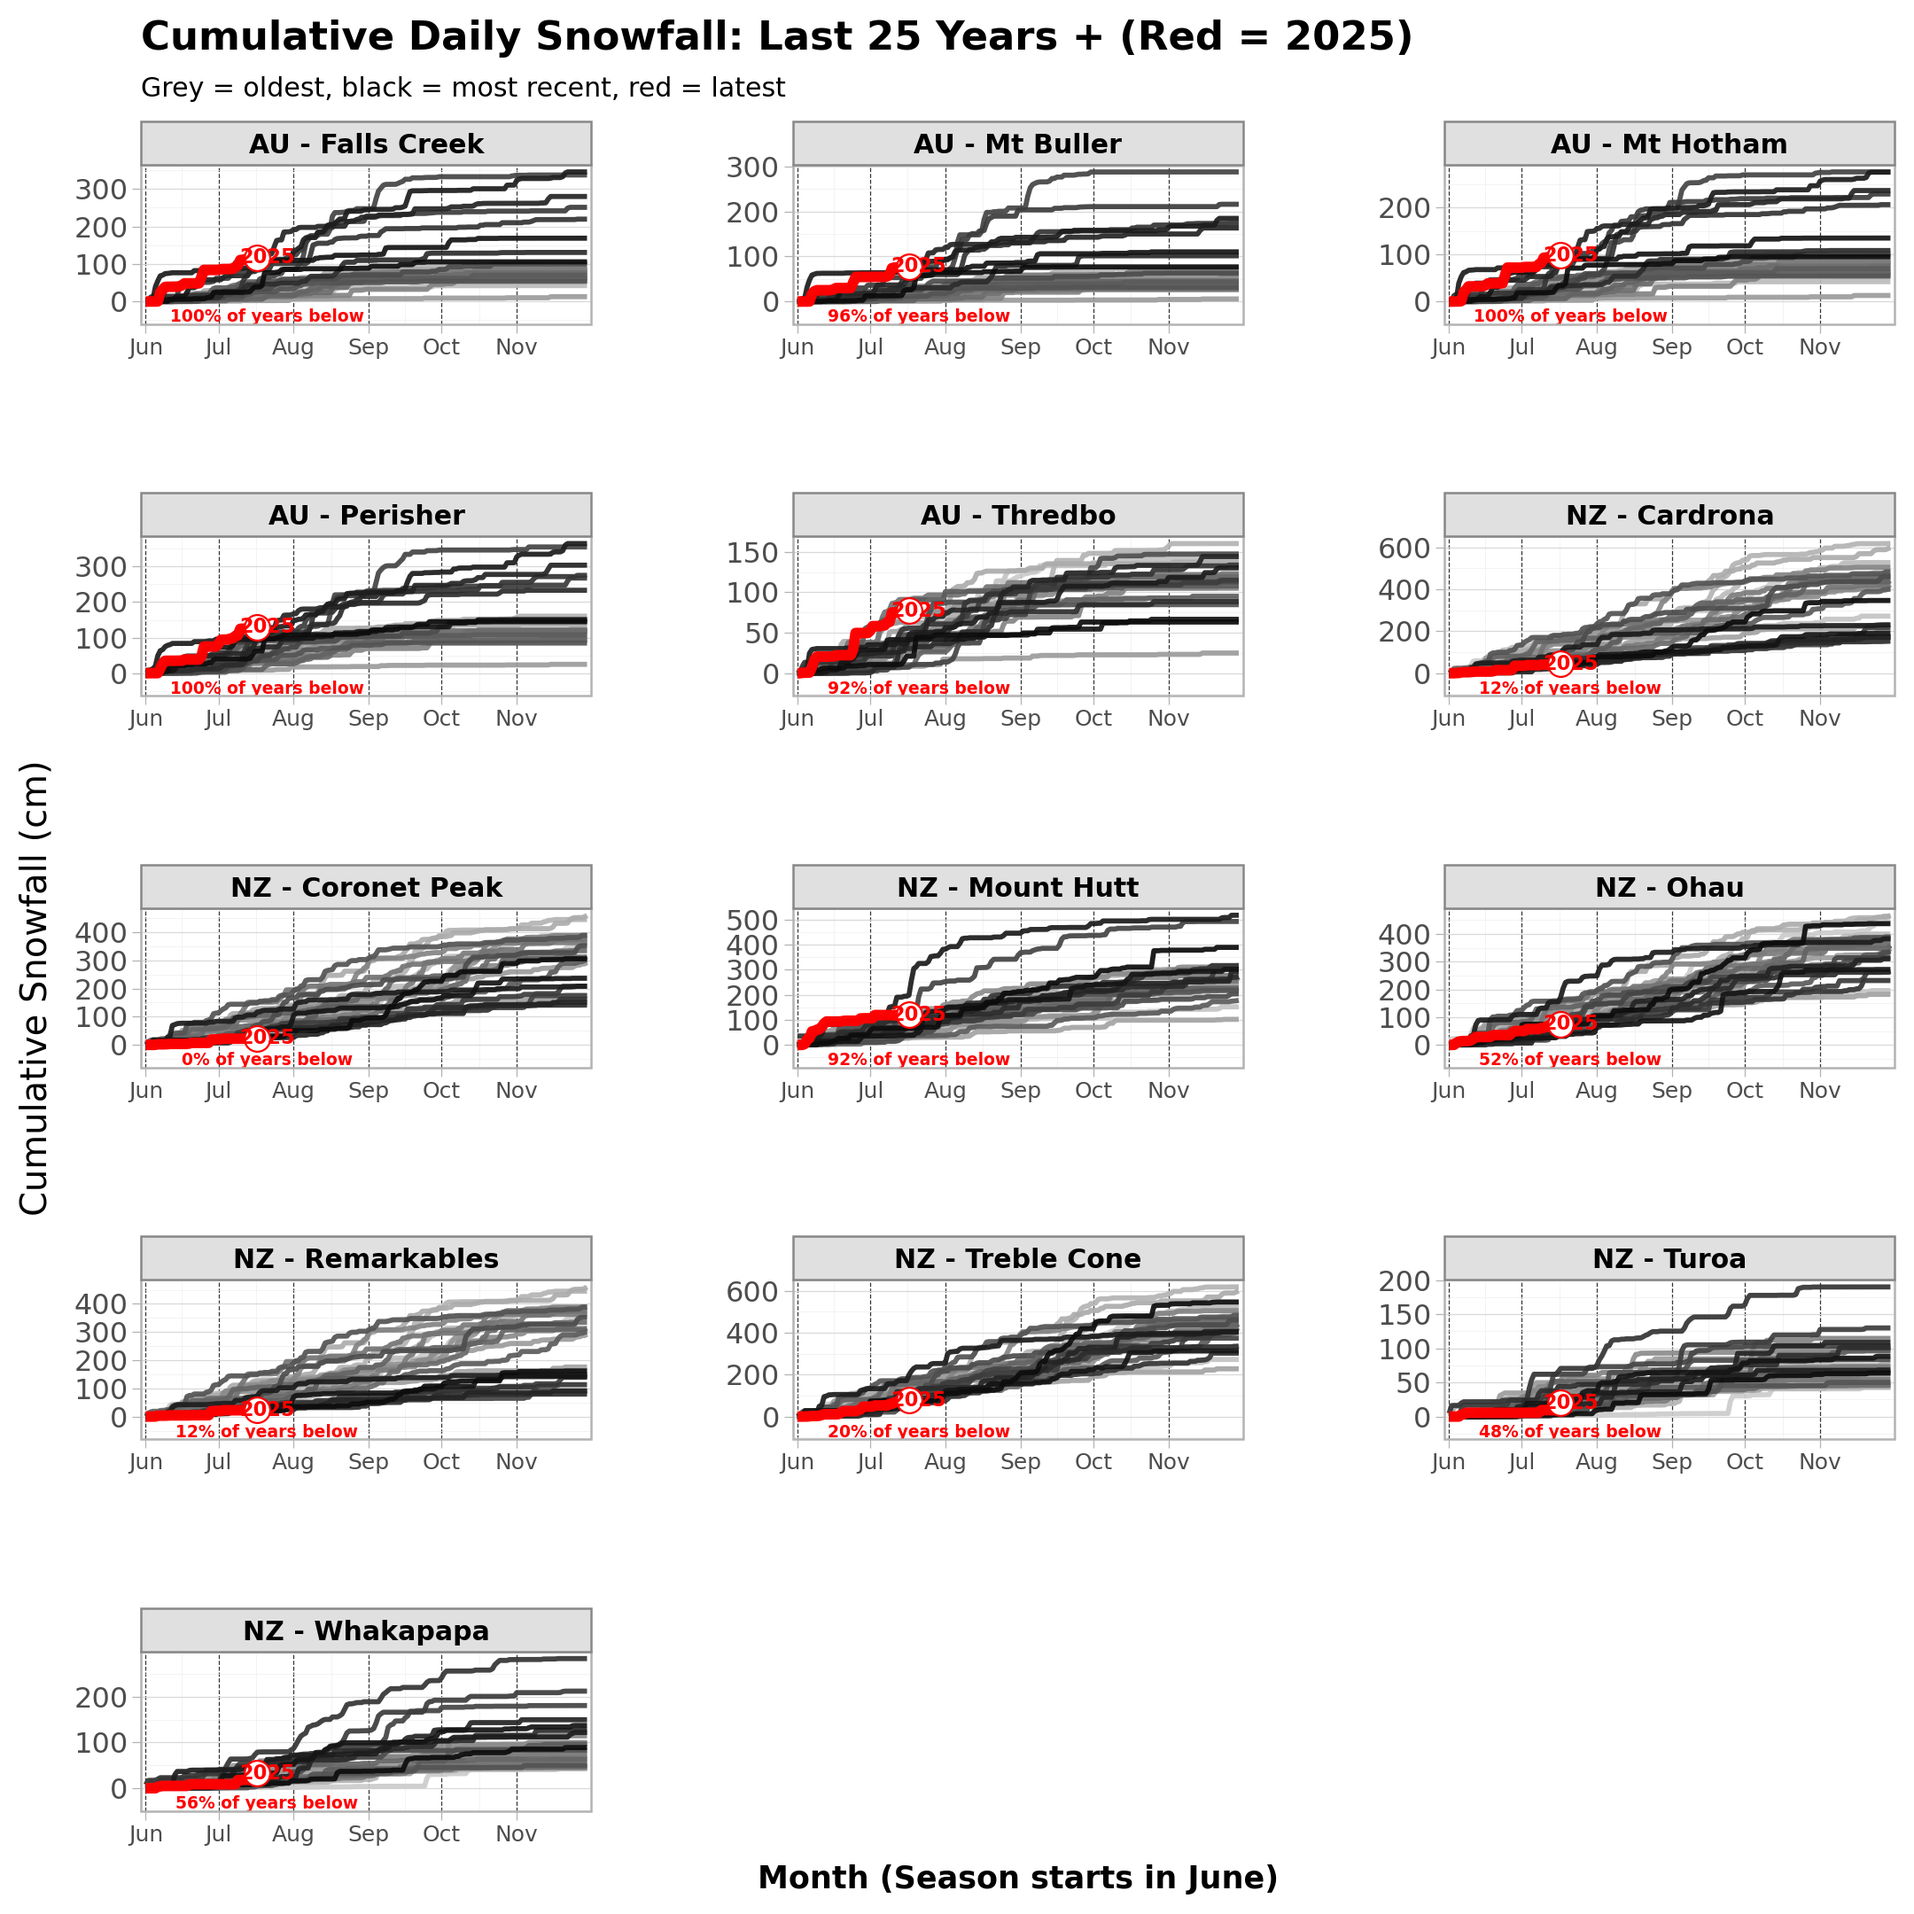
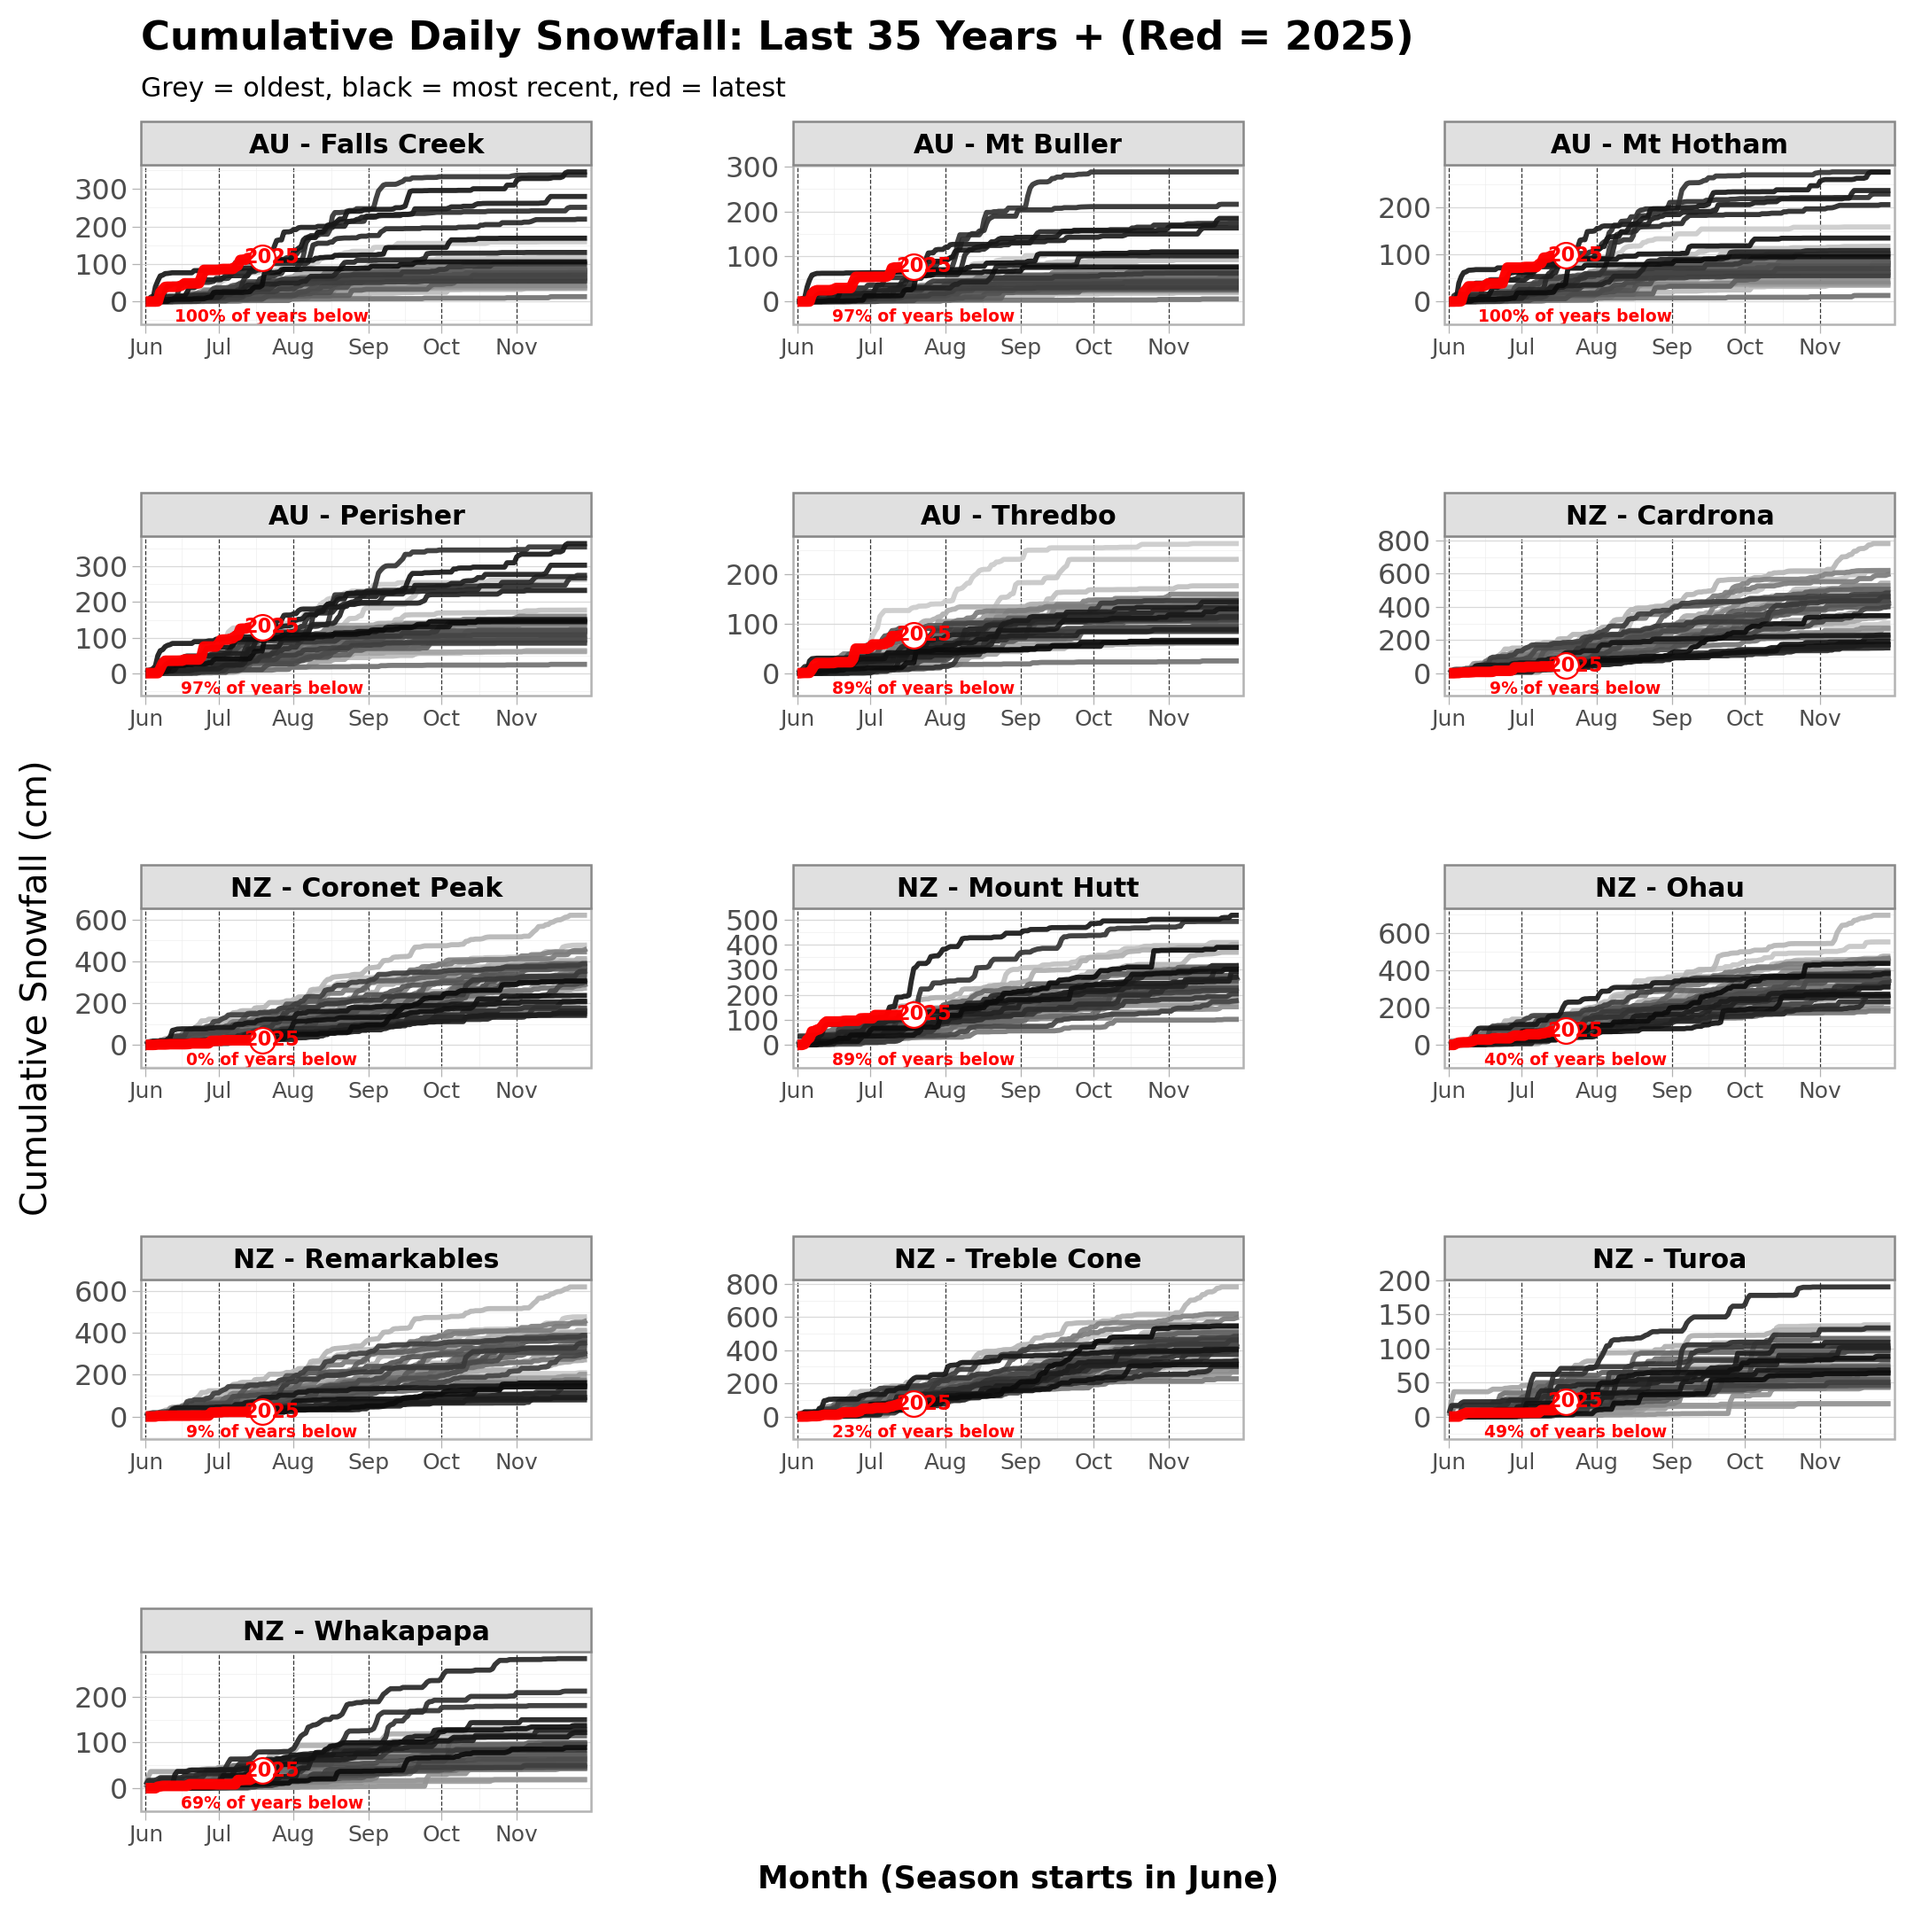
Adding Chile and Argentina to Snowfall Data

diff --git a/pipelines/snowfall_dlt.py b/pipelines/snowfall_dlt.py
@@ -46,6 +46,18 @@ def get_ski_fields_with_timestamp():
             {"name": "Mt Buller", "country": "AU", "lat": -37.1467, "lon": 146.4473, "timezone": "Australia/Melbourne"},
             {"name": "Falls Creek", "country": "AU", "lat": -36.8655, "lon": 147.2861, "timezone": "Australia/Melbourne"},
             {"name": "Mt Hotham", "country": "AU", "lat": -36.9762, "lon": 147.1359, "timezone": "Australia/Melbourne"},
+            # Chile
+            {"name": "Valle Nevado", "country": "CL", "lat": -33.3556, "lon": -70.2489, "timezone": "America/Santiago"},
+            {"name": "Portillo", "country": "CL", "lat": -32.8352, "lon": -70.1309, "timezone": "America/Santiago"},
+            {"name": "La Parva", "country": "CL", "lat": -33.3319, "lon": -70.2917, "timezone": "America/Santiago"},
+            {"name": "El Colorado", "country": "CL", "lat": -33.3500, "lon": -70.2833, "timezone": "America/Santiago"},
+            {"name": "Nevados de Chillan", "country": "CL", "lat": -36.9086, "lon": -71.4064, "timezone": "America/Santiago"},
+            # Argentina
+            {"name": "Cerro Catedral", "country": "AR", "lat": -41.1739, "lon": -71.5489, "timezone": "America/Argentina/Buenos_Aires"},
+            {"name": "Las Lenas", "country": "AR", "lat": -35.1500, "lon": -70.0833, "timezone": "America/Argentina/Buenos_Aires"},
+            {"name": "Cerro Castor", "country": "AR", "lat": -54.7203, "lon": -68.0000, "timezone": "America/Argentina/Buenos_Aires"},
+            {"name": "Chapelco", "country": "AR", "lat": -40.1622, "lon": -71.2106, "timezone": "America/Argentina/Buenos_Aires"},
+            {"name": "Cerro Bayo", "country": "AR", "lat": -40.7500, "lon": -71.6000, "timezone": "America/Argentina/Buenos_Aires"},
         ]
     ]
 

diff --git a/scripts/seasonal_var_daily.py b/scripts/seasonal_var_daily.py
@@ -40,7 +40,8 @@ df = con.execute("""
         daily_snowfall_cm,
         cumulative_snowfall_cm
     FROM camonairflow.public_analysis.snowfall_cumulative_daily
-    WHERE year_col >= 2000
+    WHERE year_col >= 1990
+    and country in ('AU', 'NZ')
 """).df()
 
 # --- Calculate daily mean for each day and field ---
@@ -73,12 +74,12 @@ def legend_label(row):
     elif row['year_col'] in last4_years:
         return str(row['year_col'])
     else:
-        return f"2000–{years_sorted[-6]}"
+        return f"1990–{years_sorted[-6]}"
 
 df['color'] = df['year_col'].map(year2color)
 df['legend_label'] = df.apply(legend_label, axis=1)
 
-legend_labels = [str(current_year)] + [str(y) for y in last4_years] + [f"2000–{years_sorted[-6]}"]
+legend_labels = [str(current_year)] + [str(y) for y in last4_years] + [f"1990–{years_sorted[-6]}"]
 legend_colors = [year2color[current_year]] + [year2color[y] for y in last4_years] + [OLDER_YEARS_COLOR]
 
 # --- Plot ---
@@ -100,8 +101,8 @@ p = (
         title="Daily Cumulative Snowfall Anomaly vs. Historical Mean",
         subtitle=(
             f"Red = {current_year}, last 4 = blue/green/yellow/black, "
-            f"grey = 2000–{years_sorted[-6]}\n"
-            "Anomaly = Cumulative snowfall minus daily mean (2000–present)"
+            f"grey = 1990–{years_sorted[-6]}\n"
+            "Anomaly = Cumulative snowfall minus daily mean (1990–present)"
         ),
         x="Month (Season starts in June)", y="Cumulative Snowfall Anomaly (cm)"
     )

diff --git a/scripts/Cumulative_snow.py b/scripts/Cumulative_snow.py
@@ -33,7 +33,8 @@ df = con.execute("""
         daily_snowfall_cm,
         cumulative_snowfall_cm
     FROM camonairflow.public_analysis.snowfall_cumulative_daily
-    WHERE year_col >= 2000
+    WHERE year_col >= 1990
+    and country in ('AU', 'NZ')
 """).df()
 
 # --- Assign Colors: grey (oldest) to black (newest, except latest) ---
